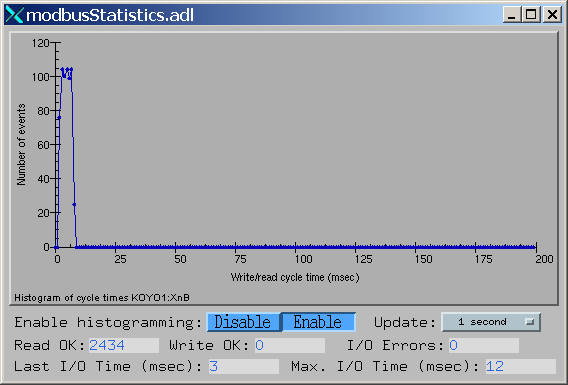
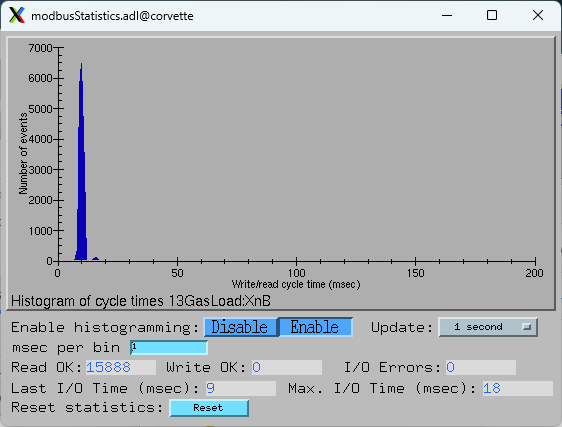
Add changes for 768d1056cfacbf7e25820087d49b2ebe3bf3e29e

Changed region(s): [[0.0, 0.0, 1.0, 1.0]]

diff --git a/searchindex.js b/searchindex.js
@@ -1,1 +1,1 @@
-Search.setIndex({"alltitles":{"Acknowledgments":[[0,null]],"Creating a modbus port driver":[[1,null]],"Debug tracing":[[2,null]],"Discrete inputs and coils":[[8,"discrete-inputs-and-coils"]],"Driver architecture":[[4,null]],"EPICS device support":[[3,null]],"Example Applications":[[5,null]],"Input registers and holding registers (V memory)":[[8,"input-registers-and-holding-registers-v-memory"]],"Koyo1.adl":[[7,"koyo1-adl"]],"Koyo2.adl":[[7,"koyo2-adl"]],"Koyo_4ADC.adl":[[7,"koyo-4adc-adl"]],"Koyo_8inputs.adl":[[7,"koyo-8inputs-adl"]],"Koyo_8outputs.adl":[[7,"koyo-8outputs-adl"]],"Modbus addresses":[[8,"modbus-addresses"]],"Modbus communication links":[[8,"modbus-communication-links"]],"Modbus communications":[[8,"modbus-communications"]],"Modbus data length limitations":[[8,"modbus-data-length-limitations"]],"Modbus data types":[[8,"modbus-data-types"]],"Modbus exception codes":[[8,"modbus-exception-codes"]],"Modbus exceptions":[[8,"modbus-exceptions"]],"Modbus function codes":[[8,"modbus-function-codes"]],"Modbus read functions":[[4,"modbus-read-functions"]],"Modbus register data types":[[1,"modbus-register-data-types"]],"Modbus write functions":[[4,"modbus-write-functions"]],"Modbus write/read functions":[[4,"modbus-write-read-functions"]],"More information on Modbus":[[8,"more-information-on-modbus"]],"Note for Wago devices":[[1,"note-for-wago-devices"]],"Number formats":[[1,"number-formats"]],"Number of drvAsynIPPort drivers for TCP":[[1,"number-of-drvasynipport-drivers-for-tcp"]],"Overview of Modbus":[[8,null]],"Platform independence":[[4,"platform-independence"]],"Serial ASCII":[[1,"serial-ascii"]],"Serial RTU":[[1,"serial-rtu"]],"TCP/IP UDP/IP":[[1,"tcp-ip-udp-ip"]],"Table of Contents":[[6,"table-of-contents"]],"Template files":[[3,"template-files"]],"asynFloat64":[[3,"asynfloat64"]],"asynFloat64Array":[[3,"asynfloat64array"]],"asynInt32":[[3,"asynint32"]],"asynInt32Array":[[3,"asynint32array"]],"asynInt64":[[3,"asynint64"]],"asynOctet":[[3,"asynoctet"]],"asynRecord.adl":[[2,"asynrecord-adl"]],"asynRegister.adl":[[2,"asynregister-adl"]],"asynUInt32Digital":[[3,"asynuint32digital"]],"drvModbusAsynConfigure":[[1,"drvmodbusasynconfigure"]],"medm screens":[[7,null]],"modbus":[[6,null]],"modbusArray.adl":[[7,"modbusarray-adl"]],"modbusDataTypes.adl":[[7,"modbusdatatypes-adl"]],"modbusInterposeConfig":[[1,"modbusinterposeconfig"]],"modbusStatistics.adl":[[7,"modbusstatistics-adl"]]},"docnames":["acknowledgments","creating_driver","debugging","device_support","driver_architecture","example_applications","index","medm_screens","overview"],"envversion":{"sphinx":66,"sphinx.domains.c":3,"sphinx.domains.changeset":1,"sphinx.domains.citation":1,"sphinx.domains.cpp":9,"sphinx.domains.index":1,"sphinx.domains.javascript":3,"sphinx.domains.math":2,"sphinx.domains.python":4,"sphinx.domains.rst":2,"sphinx.domains.std":2},"filenames":["acknowledgments.rst","creating_driver.rst","debugging.rst","device_support.rst","driver_architecture.rst","example_applications.rst","index.rst","medm_screens.rst","overview.rst"],"indexentries":{},"objects":{},"objnames":{},"objtypes":{},"terms":{"0x0":4,"0x01":8,"0x02":8,"0x03":8,"0x04":8,"0x05":8,"0x06":8,"0x07":8,"0x08":8,"0x0a":8,"0x0b":8,"0x200":1,"0x4001d10c":2,"0x4001d118":2,"0x4001d134":2,"0x4001d148":2,"0x4001d158":2,"0x4001d180":2,"0x8094f78":2,"0xffff":[3,4],"5ms":1,"A":[1,4,5,8],"After":1,"An":[4,8],"But":1,"Each":[1,2,3,4,5],"For":[1,2,3,4,5,8],"I":[1,2,3,4,5,7,8],"If":[1,3,4,8],"In":[1,4,5],"It":[0,1,3,4,5,7,8],"More":6,"NOT":8,"No":2,"On":3,"Other":[3,8],"So":0,"The":[0,1,2,3,4,5,7,8],"There":[3,4,5],"These":[3,4,5,7],"They":4,"This":[1,2,3,4,5,6,8],"To":[1,2],"We":5,"When":[4,8],"_be":1,"_be_b":1,"_le":1,"_le_b":1,"abov":[1,3,4,7,8],"absolut":[1,3,4],"accept":8,"access":[1,2,3,4,5,7,8],"acknowledg":[6,8],"act":4,"action":8,"actual":[1,2,3],"adc":[1,7],"add":[1,4],"addit":[4,8],"addr":[1,2,3],"address":[1,3,4,5,6],"adl":6,"affect":1,"agre":7,"ai":[1,3,5,7],"ai_averag":3,"aifloat64":3,"alloc":8,"allow":[3,4,5,8],"also":[1,2,3,4,5,8],"alter":8,"although":4,"alway":1,"amount":4,"analog":3,"ani":[3,4,5,8],"anoth":[1,5],"ao":[3,5,7],"aofloat64":3,"appli":[1,4],"applic":[2,6,7,8],"appropri":[4,5],"arbitrari":4,"architectur":[0,6],"area":8,"argument":[1,2,3],"array":[3,5],"ascii":[4,5,6,8],"ask":8,"assign":4,"asyn":[0,1,2,3,4,5,6],"asyn_trace_error":5,"asyn_traceio_driv":5,"asyn_traceio_hex":5,"asynchron":4,"asyncommon":[2,3],"asyndriv":1,"asyndrvus":[2,3],"asynfloat64":[1,2,4,5,6,7],"asynfloat64array":6,"asynfloat64arrayin":3,"asynfloat64arrayout":3,"asynint32":[1,2,4,5,6],"asynint32array":[2,6],"asynint32arrayin":3,"asynint32arrayout":3,"asynint32averag":3,"asynint64":[1,4,5,6],"asyninterpos":1,"asyninterposeeo":1,"asynipport":1,"asynmanag":[1,4],"asynmanagerlock":2,"asynmask":3,"asynoctet":[1,4,6],"asynoctetread":3,"asynoctetsetinputeo":[1,5],"asynoctetsetoutputeo":[1,5],"asynoctetwrit":3,"asynportdriv":4,"asynprint":2,"asynrecord":[3,6],"asynregist":6,"asynreport":[1,2],"asynserialport":1,"asynsetopt":[1,5],"asynsettraceiomask":[2,5],"asynsettraceiotruncates":5,"asynsettracemask":[2,5],"asyntrac":5,"asynuint32digit":[1,2,4,6],"atom":[3,4],"attempt":8,"author":6,"autoconnect":2,"autom":5,"automat":1,"averag":3,"avoid":[1,4],"axi":3,"back":[1,4],"backward":1,"base":[0,1],"baud":[1,5],"bcd":[1,5],"bcd_sign":[1,3],"bcd_unsign":1,"becaus":[1,3,4,8],"befor":[1,4],"begin":[1,5],"behavior":4,"beyond":1,"bi":[3,5],"bi_bit":3,"bi_word":3,"big":1,"bin":[3,5],"binari":[1,5,8],"bipolar":[3,5,7],"bit":[1,3,4,5,7,8],"blank":3,"block":[2,4],"bo":[3,5],"bo_bit":3,"bo_word":3,"br":3,"brief":2,"broken":1,"buffer":4,"build":5,"buse":8,"busi":8,"byte":[1,3,5,8],"c":[3,4,5,8],"c0":[4,5,7],"c200":[4,7],"c207":7,"c240":4,"c300":4,"c377":[4,5,7],"c40":3,"c57":3,"call":[1,4,5],"callback":3,"can":[1,2,3,4,5,8],"canblock":2,"care":4,"case":[1,4],"caus":4,"caution":4,"chang":[1,4],"channel":[2,5],"char":5,"charact":[1,3,4,8],"check":8,"chicago":6,"choic":1,"class":4,"clear":3,"client":[4,8],"cmd":[5,7],"cn":5,"code":[0,1,3,4,5,6,7],"coil":[3,4,5,6,7],"combin":[1,8],"command":[1,2,3,4,5,8],"comment":8,"common":8,"communic":[1,4,6,7],"compar":1,"compat":1,"compil":4,"complement":1,"complet":[1,3,8],"complex":8,"configur":[1,4,5],"conjunct":8,"connect":[1,2,5,8],"consid":[4,8],"consider":1,"consist":[1,4,5,8],"const":5,"contact":8,"contain":[0,1,3,8],"contigu":4,"control":[2,3,4,5,7,8],"conveni":1,"convent":1,"convers":[0,1,3,5],"convert":[0,1,5],"correct":[3,4,7],"counter":8,"counterpart":1,"cpp":5,"cpu":1,"cr":[1,8],"crc":8,"creat":[4,5,6],"ct":8,"cta":8,"current":[1,4,8],"cycl":7,"d":5,"data":[2,3,4,5,6,7],"data_typ":3,"datatyp":[1,3],"db":3,"dbd":5,"dbior":2,"dbloaddatabas":5,"dbloadtempl":5,"debug":[3,5,6],"decim":[1,5,8],"default":[1,3],"defin":[1,3,8],"definit":1,"delay":[1,3,4,5],"demonstr":5,"depend":[1,3,4],"describ":[1,4,8],"descript":[1,3,8],"design":[4,5],"desir":1,"detail":2,"detect":8,"determin":[3,8],"dev":[1,5],"devic":[4,5,6,8],"diagnost":[2,8],"differ":[1,4,5,8],"digit":[1,3],"direct":[4,5,8],"directori":[3,5,7,8],"disabl":[2,3],"disconnectonreadtimeout":5,"discret":[3,4,6,7],"display":3,"dl":5,"dl05":8,"dl205":[5,7],"document":[1,3,8],"doe":[1,3,4,5,8],"domodbusio":[2,4],"done":[1,3,4],"driver":[2,3,5,6,7,8],"drvasynipport":[2,4,6],"drvasynipportconfigur":[1,5],"drvasynserialport":[2,4],"drvasynserialportconfigur":[1,5],"drvmodbusasyn":[1,2,5],"drvmodbusasynconfigur":[3,4,5,6],"drvpvt":2,"drvuser":[1,3],"dtyp":[1,3],"dumb":4,"dump":5,"durat":8,"e":[1,3,4,8],"easi":4,"effici":[4,8],"eguf":3,"egul":3,"either":[1,3,4],"element":3,"els":3,"empir":1,"empti":1,"emul":5,"enabl":[2,3,4,5],"enable_histogram":3,"encod":[1,8],"end":[1,3,8],"endian":1,"engag":8,"engin":3,"enhanc":3,"entir":[3,4],"enum":1,"environ":8,"envpath":5,"eo":1,"epic":[0,1,2,4,5,6,8],"epicsev":3,"epicsfloat64":[1,3],"epicsint32":[1,3],"epicsint64":[1,3],"epicsuint16":3,"epicsuint32":[1,3],"epicsuint64":3,"equival":1,"error":[2,3,8],"etc":[1,3,4],"ethernet":8,"even":[1,4],"event":7,"everyth":1,"exampl":[1,2,3,4,6,7,8],"except":6,"exceptionact":2,"exceptionnotifi":2,"exceptionus":2,"execut":4,"exist":4,"expect":8,"expens":1,"explain":3,"export":4,"extend":[1,8],"extens":[0,4],"extern":5,"facil":4,"fact":[1,4],"fail":8,"failur":8,"fashion":1,"fault":8,"featur":[3,5],"fewer":4,"ff":2,"field":[1,2,3,4,8],"file":[5,6,7,8],"firmwar":8,"first":[1,3,5],"fit":4,"flag":1,"float":1,"float32_b":[1,3],"float32_be_b":1,"float32_l":[1,3],"float32_le_b":1,"float64_b":1,"float64_be_b":1,"float64_l":1,"float64_le_b":1,"follow":[1,2,3,4,5,7,8],"forc":3,"format":[5,6],"found":[1,8],"fpgas":8,"frame":[1,4,8],"free":8,"frequent":1,"function":[1,3,5,6,7],"g":[1,3,4],"gateway":8,"general":[1,3,4],"generat":8,"generic":3,"get":3,"getbound":3,"global":8,"gnu":4,"good":[1,4],"greater":1,"guarante":[3,4],"guid":1,"h":[1,4],"handl":[1,4],"happen":3,"hardwar":[1,4],"harm":1,"header":1,"henc":[1,3],"hex":5,"high":1,"histogram":[3,7],"histogram_bin_tim":3,"histogram_time_axi":3,"hold":[1,3,4,5,6],"hopr":[1,3],"host":1,"hostinfo":[1,5],"howev":[1,4,5],"id":8,"idea":1,"ident":1,"identifi":1,"ieee":1,"ifac":[2,3],"ignor":1,"illeg":8,"immedi":[3,4],"implement":[3,4,8],"impli":8,"import":1,"improv":[1,4],"inact":1,"includ":[2,3,5,8],"incorrect":[3,8],"independ":[1,6],"indic":[4,8],"inexpens":5,"inform":[1,2,6],"inherit":4,"initi":[1,3,4],"initial_readback":3,"inp":[1,3],"input":[1,3,4,5,6,7],"instanti":5,"int":[1,5],"int16":[1,3],"int16sm":[1,3],"int32":1,"int32_b":[1,3],"int32_be_b":1,"int32_l":[1,3],"int32_le_b":1,"int64_b":1,"int64_be_b":1,"int64_l":1,"int64_le_b":1,"int64in":[3,5],"int64out":[3,5],"intarray_in":3,"intarray_out":3,"integ":[1,8],"interest":[3,4],"interfac":[1,2,3,4,5,7],"interfacelist":2,"internal":8,"interpos":[1,4],"interpret":1,"intr":[3,4],"invalid":8,"invok":5,"io":4,"io_error":3,"ioc":[1,4,5,7],"iocboot":5,"iocinit":5,"iocsh":[1,2],"ioctest":5,"ip":[4,5,6,7,8],"issu":[1,8],"item":8,"ivan":0,"just":5,"k1_cn_in_bit":5,"k1_cn_in_word":5,"k1_cn_out_bit":5,"k1_cn_out_bit_array":5,"k1_cn_out_word":5,"k1_cn_out_word_array":5,"k1_xn_bit":[2,5],"k1_xn_word":[2,5],"k1_yn_in_bit":5,"k1_yn_in_word":[2,5],"k1_yn_out_bit":5,"k1_yn_out_word":5,"keitel":0,"key":1,"know":[3,4],"koyo":[1,2,3,5,7,8],"koyo1":[1,2,5,6],"koyo2":[5,6],"koyo_4adc":6,"koyo_8input":6,"koyo_8output":6,"ladder":[4,5],"largest":1,"last":[1,2,3,4,5],"last_io_tim":3,"later":[3,4,8],"layer":[1,4,8],"lead":[1,5],"least":1,"length":[1,3,5,6],"less":[1,4,8],"lesser":3,"level":[1,2,4,7,8],"lf":[1,8],"like":[4,5],"limit":[1,3,4,6],"line":4,"linear":3,"link":[1,3,6],"linktyp":[1,5],"linux":[0,4,5],"list":[1,3,8],"littl":[0,1],"load":[1,2,5],"local":1,"locat":[3,4,8],"logic":[4,5,8],"long":8,"longin":[3,5],"longinint32":3,"longout":[3,5],"longoutint32":3,"lopr":[1,3],"low":[1,4],"lower":3,"lrc":8,"machin":1,"macro":3,"made":3,"magnitud":[1,5],"make":4,"manag":1,"mani":[1,4],"manufactur":[1,8],"mark":6,"mask":[3,4],"master":8,"match":1,"max":2,"max_io_tim":3,"maximum":3,"may":[1,4,5,8],"mbap":1,"mbbi":3,"mbbidirect":[3,5],"mbbo":3,"mbbodirect":[3,5],"mbs":5,"mean":[1,3,4,8],"meaning":3,"meant":1,"medm":[2,6],"memori":[4,5,6],"messag":[3,8],"method":[2,4],"microsoft":4,"might":4,"millisecond":[1,3],"minimum":4,"minor":3,"minus":3,"misconfigur":8,"miss":8,"modbus":[0,2,3,5,7],"modbus_application_protocol_v1_1b":8,"modbus_data":[1,3],"modbus_messaging_implementation_guide_v1_0b":8,"modbus_over_serial_line_v1_02":8,"modbus_read":3,"modbusapp":[3,5,7],"modbusapp_registerrecorddevicedriv":5,"modbusarray":6,"modbusdatatyp":[1,6],"modbusdatatype_t":1,"modbusf1_a0_128bit":5,"modbusf3_a100_80word":5,"modbusf3_a200_80word":5,"modbusf3_a300_80word":5,"modbusfunct":[1,2],"modbusinterpos":1,"modbusinterposeconfig":[4,5,6],"modbuslength":[1,2,3],"modbuslinktyp":5,"modbusstartaddress":[1,2,4],"modbusstatist":6,"mode":[3,4],"model":[4,8],"modicon":1,"modifi":[3,4],"modtcp":0,"modul":[0,1,4,6],"monitor":4,"ms":1,"msec":[1,2,3,4,7],"much":[0,4,8],"multidevic":2,"multipl":[1,3,4,5,8],"must":[1,4,5],"mutex":4,"n":[1,5],"na":3,"name":[1,3,8],"nativ":4,"nbit":3,"ndevic":2,"necessari":[1,3,4],"need":[1,4,5],"negat":8,"nelm":[1,3],"network":[1,8],"new":4,"newer":8,"next":[1,8],"nibbl":1,"noautoconnect":[1,5],"nomenclatur":5,"non":[1,5],"none":[1,5],"noprocesseo":[1,5],"normal":[1,3,4,5,8],"note":[2,3,4,5,6,8],"now":0,"nqueu":2,"nsls":0,"number":[3,5,6,7,8],"number_of_charact":3,"numberconnect":2,"numer":[1,5],"o":[1,2,3,4,5,7,8],"object":[5,8],"obtain":[2,4,8],"occasion":1,"occur":8,"octal":[1,5,8],"octet":5,"offici":8,"offset":[1,3,5,8],"ok":2,"onam":3,"onc":[1,3,4],"one":[1,2,3,4,5],"onli":[1,3,4,5,8],"op":7,"oper":[1,3,4,8],"option":[1,3,5],"order":[1,3],"origin":0,"osi":8,"osv":3,"output":[1,2,3,4,5,7,8],"outsid":8,"overload":8,"overlying":4,"overrid":[1,3],"overview":6,"p":[1,3],"pack":4,"packag":[0,8],"packet":[1,8],"paragraph":4,"parallel":1,"paramet":[1,3,4,5],"pariti":[1,5,8],"part":[3,4,8],"partial":2,"particular":[1,4,8],"pass":[4,8],"path":8,"pdbbase":5,"pdf":8,"per":[1,3],"perform":[1,2,4,5,8],"period":[3,4],"pinterfac":2,"place":1,"platform":6,"plc":[1,2,3,4,5,7,8],"plcs":[1,5,8],"plctcp":0,"plctype":[1,2],"plus":5,"point":[1,4],"poll":[1,3,4,8],"poll_delay":3,"poll_trigg":3,"polldelay":2,"poller":[3,4],"pollmsec":1,"port":[2,3,4,5,6,8],"portnam":[1,3,5],"posit":8,"possibl":[1,4],"ppc32":4,"practic":5,"pragma":4,"prec":[1,3],"preced":3,"precis":3,"prefix":3,"present":8,"prevent":8,"previous":[1,4],"primari":8,"print":[1,2,3,8],"prior":4,"prioriti":[1,5],"probabl":1,"problem":1,"proc":4,"proceed":1,"process":[1,2,3,4,8],"program":[4,5,8],"programm":8,"protocol":[1,4,8],"provid":[3,4,7,8],"pure":5,"purpos":[4,5],"queri":8,"quit":4,"r":[1,3,5],"r3":[1,4],"r4":3,"rang":[1,3,4],"rate":3,"rather":[1,4,8],"re":0,"read":[1,2,3,5,6,7,8],"read_histogram":3,"read_ok":3,"read_regist":2,"readback":[1,3,7],"realist":5,"realli":8,"reason":4,"receiv":[1,4,8],"recommend":1,"record":[1,2,3,4,5,7,8],"refer":[1,3,8],"regardless":3,"regist":[3,4,5,6,7],"relat":[1,3,4],"relay":[3,5,8],"reliabl":8,"remaind":8,"remov":1,"repeat":1,"repli":8,"report":[2,8],"request":[1,2,4,8],"requir":[1,3,4,8],"resid":4,"resourc":1,"respond":8,"respons":[1,4,8],"restrict":4,"result":[1,4],"retain":0,"retransmit":8,"retri":8,"return":[3,8],"river":6,"rolf":0,"rs":8,"rtu":[4,5,6,8],"run":[2,3,4,5,7,8],"s":[1,8],"safe":4,"satisfactori":1,"say":1,"scan":[1,3,4],"screen":[2,6],"script":[1,5],"second":[1,3,4],"see":1,"segment":1,"select":[2,3,8],"send":[1,4],"sensit":1,"sent":[2,3,8],"separ":[1,4,5],"seri":5,"serial":[4,5,6,8],"server":[1,2,4,5,8],"servic":8,"set":[1,2,3,4,5],"sever":[3,4,5],"share":1,"shell":[1,2],"short":3,"shot":[2,7],"show":[2,5,7],"shown":[1,7],"sign":[1,5],"signal":3,"signific":[1,8],"simpl":5,"simul":[5,7],"sinc":[3,8],"singl":[1,3,4,5,8],"size":1,"slave":[1,5,7,8],"slaveaddress":1,"small":4,"socket":1,"sp":8,"space":[4,8],"spawn":4,"special":[1,3,4,8],"specif":[1,2,3,8],"specifi":[1,3,4,8],"st":5,"stage":8,"standard":[1,3,4,8],"start":[1,3,4,5,8],"startup":[1,5],"state":8,"statist":[3,7],"status":8,"step":1,"still":4,"stop":[1,5],"storag":8,"store":[1,4],"string":[1,3],"string_":1,"string_high":[1,3],"string_high_low":[1,3],"string_low":[1,3],"string_low_high":[1,3],"stringin":3,"stringout":3,"stringwaveformin":3,"stringwaveformout":3,"structur":[4,8],"studio":4,"submit":8,"substitut":[5,7],"substr":1,"subsystem":4,"succeed":8,"success":3,"support":[1,4,5,6,8],"swap":1,"synchronouslock":2,"syntax":3,"system":8,"t":8,"ta":8,"tabl":[1,3,8],"take":1,"talk":1,"target":8,"tcp":[2,4,5,6,7,8],"tcpportnam":1,"tell":4,"templat":[1,6],"termin":[1,3],"test":[4,5],"testclient":5,"testdatatyp":[5,7],"thing":4,"third":[3,4],"though":8,"thread":[1,3,4],"thus":[1,3],"time":[1,2,3,4,7,8],"timeout":[1,3,8],"timeoutmsec":[1,5],"timer":8,"tmod":[2,3],"top":[4,7],"trace":[3,6],"traceerror":2,"traceiodriv":2,"traceiohex":2,"traffic":1,"transact":[1,4,8],"transfer":[1,2,3,8],"translat":1,"transmit":[1,8],"treat":1,"trigger":3,"triumf":0,"truncat":3,"ttynam":[1,5],"ttys1":[1,5],"turn":2,"two":1,"type":[3,5,6,7],"typic":[1,4,8],"udp":[6,8],"ui32out":2,"uint16":[1,3],"uint32_b":1,"uint32_be_b":1,"uint32_l":1,"uint32_le_b":1,"uint64_b":1,"uint64_be_b":1,"uint64_l":1,"uint64_le_b":1,"unabl":8,"unavail":8,"unawar":8,"unconfigur":8,"underlying":[1,2,4],"understand":1,"unipolar":3,"unit":[1,8],"universiti":6,"unrecover":8,"unsign":[1,5],"unsuccess":8,"untransl":1,"upon":4,"upper":3,"usag":1,"use":[0,1,2,3,4,5,6,7,8],"user":1,"usual":[1,4,8],"v":[5,6],"valu":[1,2,3,4,5,7,8],"vc":8,"vct":8,"vendor":8,"version":1,"versus":[1,7],"vgi":8,"vgx":8,"via":[2,4],"visual":4,"vs":8,"vsp":8,"vt":8,"vx":8,"vxwork":[1,2,4,5],"vy":8,"wago":6,"wait":4,"waveform":[1,3,5,7],"way":4,"web":8,"well":1,"whenev":4,"whether":3,"wide":4,"will":[1,2,3,4,8],"win32":4,"window":4,"within":[1,4,8],"without":[5,8],"woken":3,"word":[1,3,4,5,8],"write":[1,2,3,5,6,7,8],"write_ok":3,"writedelaymsec":[1,5],"written":[0,1,2,3,4,7],"wrong":8,"x":[3,4,5,8],"x0":[4,5,7],"x2":3,"x37":[4,5,7],"x64":4,"x7":7,"x86":[4,5],"x86_64":4,"xn":5,"y":[4,5,8],"y0":[5,7],"y1":2,"y37":5,"y7":7,"yes":2,"yn":5,"zero":[1,5],"znam":3,"zstring_":[1,3],"zstring_high":[1,3],"zstring_high_low":[1,3],"zstring_low":[1,3],"zstring_low_high":[1,3],"zsv":3},"titles":["Acknowledgments","Creating a modbus port driver","Debug tracing","EPICS device support","Driver architecture","Example Applications","modbus","medm screens","Overview of Modbus"],"titleterms":{"More":8,"acknowledg":0,"address":8,"adl":[2,7],"applic":5,"architectur":4,"ascii":1,"asynfloat64":3,"asynfloat64array":3,"asynint32":3,"asynint32array":3,"asynint64":3,"asynoctet":3,"asynrecord":2,"asynregist":2,"asynuint32digit":3,"code":8,"coil":8,"communic":8,"content":6,"creat":1,"data":[1,8],"debug":2,"devic":[1,3],"discret":8,"driver":[1,4],"drvasynipport":1,"drvmodbusasynconfigur":1,"epic":3,"exampl":5,"except":8,"file":3,"format":1,"function":[4,8],"hold":8,"independ":4,"inform":8,"input":8,"ip":1,"koyo1":7,"koyo2":7,"koyo_4adc":7,"koyo_8input":7,"koyo_8output":7,"length":8,"limit":8,"link":8,"medm":7,"memori":8,"modbus":[1,4,6,8],"modbusarray":7,"modbusdatatyp":7,"modbusinterposeconfig":1,"modbusstatist":7,"note":1,"number":1,"overview":8,"platform":4,"port":1,"read":4,"regist":[1,8],"rtu":1,"screen":7,"serial":1,"support":3,"tabl":6,"tcp":1,"templat":3,"trace":2,"type":[1,8],"udp":1,"v":8,"wago":1,"write":4}})
+Search.setIndex({"alltitles":{"Acknowledgments":[[0,null]],"Creating a modbus port driver":[[1,null]],"Debug tracing":[[2,null]],"Discrete inputs and coils":[[8,"discrete-inputs-and-coils"]],"Driver architecture":[[4,null]],"EPICS device support":[[3,null]],"Example Applications":[[5,null]],"Input registers and holding registers (V memory)":[[8,"input-registers-and-holding-registers-v-memory"]],"Koyo1.adl":[[7,"koyo1-adl"]],"Koyo2.adl":[[7,"koyo2-adl"]],"Koyo_4ADC.adl":[[7,"koyo-4adc-adl"]],"Koyo_8inputs.adl":[[7,"koyo-8inputs-adl"]],"Koyo_8outputs.adl":[[7,"koyo-8outputs-adl"]],"Modbus addresses":[[8,"modbus-addresses"]],"Modbus communication links":[[8,"modbus-communication-links"]],"Modbus communications":[[8,"modbus-communications"]],"Modbus data length limitations":[[8,"modbus-data-length-limitations"]],"Modbus data types":[[8,"modbus-data-types"]],"Modbus exception codes":[[8,"modbus-exception-codes"]],"Modbus exceptions":[[8,"modbus-exceptions"]],"Modbus function codes":[[8,"modbus-function-codes"]],"Modbus read functions":[[4,"modbus-read-functions"]],"Modbus register data types":[[1,"modbus-register-data-types"]],"Modbus write functions":[[4,"modbus-write-functions"]],"Modbus write/read functions":[[4,"modbus-write-read-functions"]],"More information on Modbus":[[8,"more-information-on-modbus"]],"Note for Wago devices":[[1,"note-for-wago-devices"]],"Number formats":[[1,"number-formats"]],"Number of drvAsynIPPort drivers for TCP":[[1,"number-of-drvasynipport-drivers-for-tcp"]],"Overview of Modbus":[[8,null]],"Platform independence":[[4,"platform-independence"]],"Serial ASCII":[[1,"serial-ascii"]],"Serial RTU":[[1,"serial-rtu"]],"TCP/IP UDP/IP":[[1,"tcp-ip-udp-ip"]],"Table of Contents":[[6,"table-of-contents"]],"Template files":[[3,"template-files"]],"asynFloat64":[[3,"asynfloat64"]],"asynFloat64Array":[[3,"asynfloat64array"]],"asynInt32":[[3,"asynint32"]],"asynInt32Array":[[3,"asynint32array"]],"asynInt64":[[3,"asynint64"]],"asynOctet":[[3,"asynoctet"]],"asynRecord.adl":[[2,"asynrecord-adl"]],"asynRegister.adl":[[2,"asynregister-adl"]],"asynUInt32Digital":[[3,"asynuint32digital"]],"drvModbusAsynConfigure":[[1,"drvmodbusasynconfigure"]],"medm screens":[[7,null]],"modbus":[[6,null]],"modbusArray.adl":[[7,"modbusarray-adl"]],"modbusDataTypes.adl":[[7,"modbusdatatypes-adl"]],"modbusInterposeConfig":[[1,"modbusinterposeconfig"]],"modbusStatistics.adl":[[7,"modbusstatistics-adl"]]},"docnames":["acknowledgments","creating_driver","debugging","device_support","driver_architecture","example_applications","index","medm_screens","overview"],"envversion":{"sphinx":66,"sphinx.domains.c":3,"sphinx.domains.changeset":1,"sphinx.domains.citation":1,"sphinx.domains.cpp":9,"sphinx.domains.index":1,"sphinx.domains.javascript":3,"sphinx.domains.math":2,"sphinx.domains.python":4,"sphinx.domains.rst":2,"sphinx.domains.std":2},"filenames":["acknowledgments.rst","creating_driver.rst","debugging.rst","device_support.rst","driver_architecture.rst","example_applications.rst","index.rst","medm_screens.rst","overview.rst"],"indexentries":{},"objects":{},"objnames":{},"objtypes":{},"terms":{"0x0":4,"0x01":8,"0x02":8,"0x03":8,"0x04":8,"0x05":8,"0x06":8,"0x07":8,"0x08":8,"0x0a":8,"0x0b":8,"0x200":1,"0x4001d10c":2,"0x4001d118":2,"0x4001d134":2,"0x4001d148":2,"0x4001d158":2,"0x4001d180":2,"0x8094f78":2,"0xffff":[3,4],"5ms":1,"A":[1,4,5,8],"After":1,"An":[4,8],"But":1,"Each":[1,2,3,4,5],"For":[1,2,3,4,5,8],"I":[1,2,3,4,5,7,8],"If":[1,3,4,8],"In":[1,4,5],"It":[0,1,3,4,5,7,8],"More":6,"NOT":8,"No":2,"On":3,"Other":[3,8],"So":0,"The":[0,1,2,3,4,5,7,8],"There":[3,4,5],"These":[3,4,5,7],"They":4,"This":[1,2,3,4,5,6,8],"To":[1,2],"We":5,"When":[4,8],"_be":1,"_be_b":1,"_le":1,"_le_b":1,"abov":[1,3,4,7,8],"absolut":[1,3,4],"accept":8,"access":[1,2,3,4,5,7,8],"acknowledg":[6,8],"act":4,"action":8,"actual":[1,2,3],"adc":[1,7],"add":[1,4],"addit":[4,8],"addr":[1,2,3],"address":[1,3,4,5,6],"adl":6,"affect":1,"agre":7,"ai":[1,3,5,7],"ai_averag":3,"aifloat64":3,"alloc":8,"allow":[3,4,5,8],"also":[1,2,3,4,5,8],"alter":8,"although":4,"alway":1,"amount":4,"analog":3,"ani":[3,4,5,8],"anoth":[1,5],"ao":[3,5,7],"aofloat64":3,"appli":[1,4],"applic":[2,6,7,8],"appropri":[4,5],"arbitrari":4,"architectur":[0,6],"area":8,"argument":[1,2,3],"array":[3,5],"ascii":[4,5,6,8],"ask":8,"assign":4,"asyn":[0,1,2,3,4,5,6],"asyn_trace_error":5,"asyn_traceio_driv":5,"asyn_traceio_hex":5,"asynchron":4,"asyncommon":[2,3],"asyndriv":1,"asyndrvus":[2,3],"asynfloat64":[1,2,4,5,6,7],"asynfloat64array":6,"asynfloat64arrayin":3,"asynfloat64arrayout":3,"asynint32":[1,2,4,5,6],"asynint32array":[2,6],"asynint32arrayin":3,"asynint32arrayout":3,"asynint32averag":3,"asynint64":[1,4,5,6],"asyninterpos":1,"asyninterposeeo":1,"asynipport":1,"asynmanag":[1,4],"asynmanagerlock":2,"asynmask":3,"asynoctet":[1,4,6],"asynoctetread":3,"asynoctetsetinputeo":[1,5],"asynoctetsetoutputeo":[1,5],"asynoctetwrit":3,"asynportdriv":4,"asynprint":2,"asynrecord":[3,6],"asynregist":6,"asynreport":[1,2],"asynserialport":1,"asynsetopt":[1,5],"asynsettraceiomask":[2,5],"asynsettraceiotruncates":5,"asynsettracemask":[2,5],"asyntrac":5,"asynuint32digit":[1,2,4,6],"atom":[3,4],"attempt":8,"author":6,"autoconnect":2,"autom":5,"automat":1,"averag":3,"avoid":[1,4],"axi":3,"back":[1,4],"backward":1,"base":[0,1],"baud":[1,5],"bcd":[1,5],"bcd_sign":[1,3],"bcd_unsign":1,"becaus":[1,3,4,8],"befor":[1,4],"begin":[1,5],"behavior":4,"beyond":1,"bi":[3,5],"bi_bit":3,"bi_word":3,"big":1,"bin":[3,5],"binari":[1,5,8],"bipolar":[3,5,7],"bit":[1,3,4,5,7,8],"blank":3,"block":[2,4],"bo":[3,5],"bo_bit":3,"bo_word":3,"br":3,"brief":2,"broken":1,"buffer":4,"build":5,"buse":8,"busi":8,"byte":[1,3,5,8],"c":[3,4,5,8],"c0":[4,5,7],"c200":[4,7],"c207":7,"c240":4,"c300":4,"c377":[4,5,7],"c40":3,"c57":3,"call":[1,4,5],"callback":3,"can":[1,2,3,4,5,8],"canblock":2,"care":4,"case":[1,4],"caus":4,"caution":4,"chang":[1,4],"channel":[2,5],"char":5,"charact":[1,3,4,8],"check":8,"chicago":6,"choic":1,"class":4,"clear":3,"client":[4,8],"cmd":[5,7],"cn":5,"code":[0,1,3,4,5,6,7],"coil":[3,4,5,6,7],"combin":[1,8],"command":[1,2,3,4,5,8],"comment":8,"common":8,"communic":[1,4,6,7],"compar":1,"compat":1,"compil":4,"complement":1,"complet":[1,3,8],"complex":8,"configur":[1,4,5],"conjunct":8,"connect":[1,2,5,8],"consid":[4,8],"consider":1,"consist":[1,4,5,8],"const":5,"contact":8,"contain":[0,1,3,8],"contigu":4,"control":[2,3,4,5,7,8],"conveni":1,"convent":1,"convers":[0,1,3,5],"convert":[0,1,5],"correct":[3,4,7],"counter":8,"counterpart":1,"cpp":5,"cpu":1,"cr":[1,8],"crc":8,"creat":[4,5,6],"ct":8,"cta":8,"current":[1,4,8],"cycl":7,"d":5,"data":[2,3,4,5,6,7],"data_typ":3,"datatyp":[1,3],"db":3,"dbd":5,"dbior":2,"dbloaddatabas":5,"dbloadtempl":5,"debug":[3,5,6],"decim":[1,5,8],"default":[1,3],"defin":[1,3,8],"definit":1,"delay":[1,3,4,5],"demonstr":5,"depend":[1,3,4],"describ":[1,4,8],"descript":[1,3,8],"design":[4,5],"desir":1,"detail":2,"detect":8,"determin":[3,8],"dev":[1,5],"devic":[4,5,6,8],"diagnost":[2,8],"differ":[1,4,5,8],"digit":[1,3],"direct":[4,5,8],"directori":[3,5,7,8],"disabl":[2,3],"disconnectonreadtimeout":5,"discret":[3,4,6,7],"display":3,"dl":5,"dl05":8,"dl205":[5,7],"document":[1,3,8],"doe":[1,3,4,5,8],"domodbusio":[2,4],"done":[1,3,4],"driver":[2,3,5,6,7,8],"drvasynipport":[2,4,6],"drvasynipportconfigur":[1,5],"drvasynserialport":[2,4],"drvasynserialportconfigur":[1,5],"drvmodbusasyn":[1,2,5],"drvmodbusasynconfigur":[3,4,5,6],"drvpvt":2,"drvuser":[1,3],"dtyp":[1,3],"dumb":4,"dump":5,"durat":8,"e":[1,3,4,8],"easi":4,"effici":[4,8],"eguf":3,"egul":3,"either":[1,3,4],"element":3,"els":3,"empir":1,"empti":1,"emul":5,"enabl":[2,3,4,5],"enable_histogram":3,"encod":[1,8],"end":[1,3,8],"endian":1,"engag":8,"engin":3,"enhanc":3,"entir":[3,4],"enum":1,"environ":8,"envpath":5,"eo":1,"epic":[0,1,2,4,5,6,8],"epicsev":3,"epicsfloat64":[1,3],"epicsint32":[1,3],"epicsint64":[1,3],"epicsuint16":3,"epicsuint32":[1,3],"epicsuint64":3,"equival":1,"error":[2,3,8],"etc":[1,3,4],"ethernet":8,"even":[1,4],"event":7,"everyth":1,"exampl":[1,2,3,4,6,7,8],"except":6,"exceptionact":2,"exceptionnotifi":2,"exceptionus":2,"execut":4,"exist":4,"expect":8,"expens":1,"explain":3,"export":4,"extend":[1,8],"extens":[0,4],"extern":5,"facil":4,"fact":[1,4],"fail":8,"failur":8,"fashion":1,"fault":8,"featur":[3,5],"fewer":4,"ff":2,"field":[1,2,3,4,8],"file":[5,6,7,8],"firmwar":8,"first":[1,3,5],"fit":4,"flag":1,"float":1,"float32_b":[1,3],"float32_be_b":1,"float32_l":[1,3],"float32_le_b":1,"float64_b":1,"float64_be_b":1,"float64_l":1,"float64_le_b":1,"follow":[1,2,3,4,5,7,8],"forc":3,"format":[5,6],"found":[1,8],"fpgas":8,"frame":[1,4,8],"free":8,"frequent":1,"function":[1,3,5,6,7],"g":[1,3,4],"gateway":8,"general":[1,3,4],"generat":8,"generic":3,"get":3,"getbound":3,"global":8,"gnu":4,"good":[1,4],"greater":1,"guarante":[3,4],"guid":1,"h":[1,4],"handl":[1,4],"happen":3,"hardwar":[1,4],"harm":1,"header":1,"henc":[1,3],"hex":5,"high":1,"histogram":[3,7],"histogram_bin_tim":3,"histogram_time_axi":3,"hold":[1,3,4,5,6],"hopr":[1,3],"host":1,"hostinfo":[1,5],"howev":[1,4,5],"id":8,"idea":1,"ident":1,"identifi":1,"ieee":1,"ifac":[2,3],"ignor":1,"illeg":8,"immedi":[3,4],"implement":[3,4,8],"impli":8,"import":1,"improv":[1,4],"inact":1,"includ":[2,3,5,8],"incorrect":[3,8],"independ":[1,6],"indic":[4,8],"inexpens":5,"inform":[1,2,6],"inherit":4,"initi":[1,3,4],"initial_readback":3,"inp":[1,3],"input":[1,3,4,5,6,7],"instanti":5,"int":[1,5],"int16":[1,3],"int16sm":[1,3],"int32":1,"int32_b":[1,3],"int32_be_b":1,"int32_l":[1,3],"int32_le_b":1,"int64_b":1,"int64_be_b":1,"int64_l":1,"int64_le_b":1,"int64in":[3,5],"int64out":[3,5],"intarray_in":3,"intarray_out":3,"integ":[1,8],"interest":[3,4],"interfac":[1,2,3,4,5,7],"interfacelist":2,"internal":8,"interpos":[1,4],"interpret":1,"intr":[3,4],"invalid":8,"invok":5,"io":4,"io_error":3,"ioc":[1,4,5,7],"iocboot":5,"iocinit":5,"iocsh":[1,2],"ioctest":5,"ip":[4,5,6,7,8],"issu":[1,8],"item":8,"ivan":0,"just":5,"k1_cn_in_bit":5,"k1_cn_in_word":5,"k1_cn_out_bit":5,"k1_cn_out_bit_array":5,"k1_cn_out_word":5,"k1_cn_out_word_array":5,"k1_xn_bit":[2,5],"k1_xn_word":[2,5],"k1_yn_in_bit":5,"k1_yn_in_word":[2,5],"k1_yn_out_bit":5,"k1_yn_out_word":5,"keitel":0,"key":1,"know":[3,4],"koyo":[1,2,3,5,7,8],"koyo1":[1,2,5,6],"koyo2":[5,6],"koyo_4adc":6,"koyo_8input":6,"koyo_8output":6,"ladder":[4,5],"largest":1,"last":[1,2,3,4,5],"last_io_tim":3,"later":[3,4,8],"layer":[1,4,8],"lead":[1,5],"least":1,"length":[1,3,5,6],"less":[1,4,8],"lesser":3,"level":[1,2,4,7,8],"lf":[1,8],"like":[4,5],"limit":[1,3,4,6],"line":4,"linear":3,"link":[1,3,6],"linktyp":[1,5],"linux":[0,4,5],"list":[1,3,8],"littl":[0,1],"load":[1,2,5],"local":1,"locat":[3,4,8],"logic":[4,5,8],"long":8,"longin":[3,5],"longinint32":3,"longout":[3,5],"longoutint32":3,"lopr":[1,3],"low":[1,4],"lower":3,"lrc":8,"machin":1,"macro":3,"made":3,"magnitud":[1,5],"make":4,"manag":1,"mani":[1,4],"manufactur":[1,8],"mark":6,"mask":[3,4],"master":8,"match":1,"max":2,"max_io_tim":3,"maximum":3,"may":[1,4,5,8],"mbap":1,"mbbi":3,"mbbidirect":[3,5],"mbbo":3,"mbbodirect":[3,5],"mbs":5,"mean":[1,3,4,8],"meaning":3,"meant":1,"medm":[2,6],"memori":[4,5,6],"messag":[3,8],"method":[2,4],"microsoft":4,"might":4,"millisecond":[1,3],"minimum":4,"minor":3,"minus":3,"misconfigur":8,"miss":8,"modbus":[0,2,3,5,7],"modbus_application_protocol_v1_1b":8,"modbus_data":[1,3],"modbus_messaging_implementation_guide_v1_0b":8,"modbus_over_serial_line_v1_02":8,"modbus_read":3,"modbusapp":[3,5,7],"modbusapp_registerrecorddevicedriv":5,"modbusarray":6,"modbusdatatyp":[1,6],"modbusdatatype_t":1,"modbusf1_a0_128bit":5,"modbusf3_a100_80word":5,"modbusf3_a200_80word":5,"modbusf3_a300_80word":5,"modbusfunct":[1,2],"modbusinterpos":1,"modbusinterposeconfig":[4,5,6],"modbuslength":[1,2,3],"modbuslinktyp":5,"modbusstartaddress":[1,2,4],"modbusstatist":6,"mode":[3,4],"model":[4,8],"modicon":1,"modifi":[3,4],"modtcp":0,"modul":[0,1,4,6],"monitor":4,"ms":1,"msec":[1,2,3,4,7],"much":[0,4,8],"multidevic":2,"multipl":[1,3,4,5,8],"must":[1,4,5],"mutex":4,"n":[1,5],"na":3,"name":[1,3,8],"nativ":4,"nbit":3,"ndevic":2,"necessari":[1,3,4],"need":[1,4,5],"negat":8,"nelm":[1,3],"network":[1,8],"new":4,"newer":8,"next":[1,8],"nibbl":1,"noautoconnect":[1,5],"nomenclatur":5,"non":[1,5],"none":[1,5],"noprocesseo":[1,5],"normal":[1,3,4,5,8],"note":[2,3,4,5,6,8],"now":0,"nqueu":2,"nsls":0,"number":[3,5,6,7,8],"number_of_charact":3,"numberconnect":2,"numer":[1,5],"o":[1,2,3,4,5,7,8],"object":[5,8],"obtain":[2,4,8],"occasion":1,"occur":8,"octal":[1,5,8],"octet":5,"offici":8,"offset":[1,3,5,8],"ok":2,"onam":3,"onc":[1,3,4],"one":[1,2,3,4,5],"onli":[1,3,4,5,8],"op":7,"oper":[1,3,4,8],"option":[1,3,5],"order":[1,3],"origin":0,"osi":8,"osv":3,"output":[1,2,3,4,5,7,8],"outsid":8,"overload":8,"overlying":4,"overrid":[1,3],"overview":6,"p":[1,3],"pack":4,"packag":[0,8],"packet":[1,8],"paragraph":4,"parallel":1,"paramet":[1,3,4,5],"pariti":[1,5,8],"part":[3,4,8],"partial":2,"particular":[1,4,8],"pass":[4,8],"path":8,"pdbbase":5,"pdf":8,"per":[1,3],"perform":[1,2,4,5,8],"period":[3,4],"pinterfac":2,"place":1,"platform":6,"plc":[1,2,3,4,5,7,8],"plcs":[1,5,8],"plctcp":0,"plctype":[1,2],"plus":5,"point":[1,4],"poll":[1,3,4,8],"poll_delay":3,"poll_trigg":3,"polldelay":2,"poller":[3,4],"pollmsec":1,"port":[2,3,4,5,6,8],"portnam":[1,3,5],"posit":8,"possibl":[1,4],"ppc32":4,"practic":5,"pragma":4,"prec":[1,3],"preced":3,"precis":3,"prefix":3,"present":8,"prevent":8,"previous":[1,4],"primari":8,"print":[1,2,3,8],"prior":4,"prioriti":[1,5],"probabl":1,"problem":1,"proc":4,"proceed":1,"process":[1,2,3,4,8],"program":[4,5,8],"programm":8,"protocol":[1,4,8],"provid":[3,4,7,8],"pure":5,"purpos":[4,5],"queri":8,"quit":4,"r":[1,3,5],"r3":[1,4],"r4":3,"rang":[1,3,4],"rate":3,"rather":[1,4,8],"re":0,"read":[1,2,3,5,6,7,8],"read_histogram":3,"read_ok":3,"read_regist":2,"readback":[1,3,7],"realist":5,"realli":8,"reason":4,"receiv":[1,4,8],"recommend":1,"record":[1,2,3,4,5,7,8],"refer":[1,3,8],"regardless":3,"regist":[3,4,5,6,7],"relat":[1,3,4],"relay":[3,5,8],"reliabl":8,"remaind":8,"remov":1,"repeat":1,"repli":8,"report":[2,8],"request":[1,2,4,8],"requir":[1,3,4,8],"reset":3,"reset_statist":3,"resid":4,"resourc":1,"respond":8,"respons":[1,4,8],"restrict":4,"result":[1,4],"retain":0,"retransmit":8,"retri":8,"return":[3,8],"river":6,"rolf":0,"rs":8,"rtu":[4,5,6,8],"run":[2,3,4,5,7,8],"s":[1,8],"safe":4,"satisfactori":1,"say":1,"scan":[1,3,4],"screen":[2,6],"script":[1,5],"second":[1,3,4],"see":1,"segment":1,"select":[2,3,8],"send":[1,4],"sensit":1,"sent":[2,3,8],"separ":[1,4,5],"seri":5,"serial":[4,5,6,8],"server":[1,2,4,5,8],"servic":8,"set":[1,2,3,4,5],"sever":[3,4,5],"share":1,"shell":[1,2],"short":3,"shot":[2,7],"show":[2,5,7],"shown":[1,7],"sign":[1,5],"signal":3,"signific":[1,8],"simpl":5,"simul":[5,7],"sinc":[3,8],"singl":[1,3,4,5,8],"size":1,"slave":[1,5,7,8],"slaveaddress":1,"small":4,"socket":1,"sp":8,"space":[4,8],"spawn":4,"special":[1,3,4,8],"specif":[1,2,3,8],"specifi":[1,3,4,8],"st":5,"stage":8,"standard":[1,3,4,8],"start":[1,3,4,5,8],"startup":[1,5],"state":8,"statist":[3,7],"status":8,"step":1,"still":4,"stop":[1,5],"storag":8,"store":[1,4],"string":[1,3],"string_":1,"string_high":[1,3],"string_high_low":[1,3],"string_low":[1,3],"string_low_high":[1,3],"stringin":3,"stringout":3,"stringwaveformin":3,"stringwaveformout":3,"structur":[4,8],"studio":4,"submit":8,"substitut":[5,7],"substr":1,"subsystem":4,"succeed":8,"success":3,"support":[1,4,5,6,8],"swap":1,"synchronouslock":2,"syntax":3,"system":8,"t":8,"ta":8,"tabl":[1,3,8],"take":1,"talk":1,"target":8,"tcp":[2,4,5,6,7,8],"tcpportnam":1,"tell":4,"templat":[1,6],"termin":[1,3],"test":[4,5],"testclient":5,"testdatatyp":[5,7],"thing":4,"third":[3,4],"though":8,"thread":[1,3,4],"thus":[1,3],"time":[1,2,3,4,7,8],"timeout":[1,3,8],"timeoutmsec":[1,5],"timer":8,"tmod":[2,3],"top":[4,7],"trace":[3,6],"traceerror":2,"traceiodriv":2,"traceiohex":2,"traffic":1,"transact":[1,4,8],"transfer":[1,2,3,8],"translat":1,"transmit":[1,8],"treat":1,"trigger":3,"triumf":0,"truncat":3,"ttynam":[1,5],"ttys1":[1,5],"turn":2,"two":1,"type":[3,5,6,7],"typic":[1,4,8],"udp":[6,8],"ui32out":2,"uint16":[1,3],"uint32_b":1,"uint32_be_b":1,"uint32_l":1,"uint32_le_b":1,"uint64_b":1,"uint64_be_b":1,"uint64_l":1,"uint64_le_b":1,"unabl":8,"unavail":8,"unawar":8,"unconfigur":8,"underlying":[1,2,4],"understand":1,"unipolar":3,"unit":[1,8],"universiti":6,"unrecover":8,"unsign":[1,5],"unsuccess":8,"untransl":1,"upon":4,"upper":3,"usag":1,"use":[0,1,2,3,4,5,6,7,8],"user":1,"usual":[1,4,8],"v":[5,6],"valu":[1,2,3,4,5,7,8],"vc":8,"vct":8,"vendor":8,"version":1,"versus":[1,7],"vgi":8,"vgx":8,"via":[2,4],"visual":4,"vs":8,"vsp":8,"vt":8,"vx":8,"vxwork":[1,2,4,5],"vy":8,"wago":6,"wait":4,"waveform":[1,3,5,7],"way":4,"web":8,"well":1,"whenev":4,"whether":3,"wide":4,"will":[1,2,3,4,8],"win32":4,"window":4,"within":[1,4,8],"without":[5,8],"woken":3,"word":[1,3,4,5,8],"write":[1,2,3,5,6,7,8],"write_ok":3,"writedelaymsec":[1,5],"written":[0,1,2,3,4,7],"wrong":8,"x":[3,4,5,8],"x0":[4,5,7],"x2":3,"x37":[4,5,7],"x64":4,"x7":7,"x86":[4,5],"x86_64":4,"xn":5,"y":[4,5,8],"y0":[5,7],"y1":2,"y37":5,"y7":7,"yes":2,"yn":5,"zero":[1,5],"znam":3,"zstring_":[1,3],"zstring_high":[1,3],"zstring_high_low":[1,3],"zstring_low":[1,3],"zstring_low_high":[1,3],"zsv":3},"titles":["Acknowledgments","Creating a modbus port driver","Debug tracing","EPICS device support","Driver architecture","Example Applications","modbus","medm screens","Overview of Modbus"],"titleterms":{"More":8,"acknowledg":0,"address":8,"adl":[2,7],"applic":5,"architectur":4,"ascii":1,"asynfloat64":3,"asynfloat64array":3,"asynint32":3,"asynint32array":3,"asynint64":3,"asynoctet":3,"asynrecord":2,"asynregist":2,"asynuint32digit":3,"code":8,"coil":8,"communic":8,"content":6,"creat":1,"data":[1,8],"debug":2,"devic":[1,3],"discret":8,"driver":[1,4],"drvasynipport":1,"drvmodbusasynconfigur":1,"epic":3,"exampl":5,"except":8,"file":3,"format":1,"function":[4,8],"hold":8,"independ":4,"inform":8,"input":8,"ip":1,"koyo1":7,"koyo2":7,"koyo_4adc":7,"koyo_8input":7,"koyo_8output":7,"length":8,"limit":8,"link":8,"medm":7,"memori":8,"modbus":[1,4,6,8],"modbusarray":7,"modbusdatatyp":7,"modbusinterposeconfig":1,"modbusstatist":7,"note":1,"number":1,"overview":8,"platform":4,"port":1,"read":4,"regist":[1,8],"rtu":1,"screen":7,"serial":1,"support":3,"tabl":6,"tcp":1,"templat":3,"trace":2,"type":[1,8],"udp":1,"v":8,"wago":1,"write":4}})

diff --git a/device_support.html b/device_support.html
@@ -323,6 +323,13 @@ to run once immediately, regardless of the value of POLL_DELAY.</p></td>
 <td><p>ao, longout</p></td>
 <td><p>Sets the time per bin in msec in the statistics histogram</p></td>
 </tr>
+<tr class="row-odd"><td><p>Any</p></td>
+<td><p>NA</p></td>
+<td><p>NA</p></td>
+<td><p>RESET_STATISTICS</p></td>
+<td><p>bo</p></td>
+<td><p>Resets all the I/O statistics on this asyn port.</p></td>
+</tr>
 </tbody>
 </table>
 </section>
